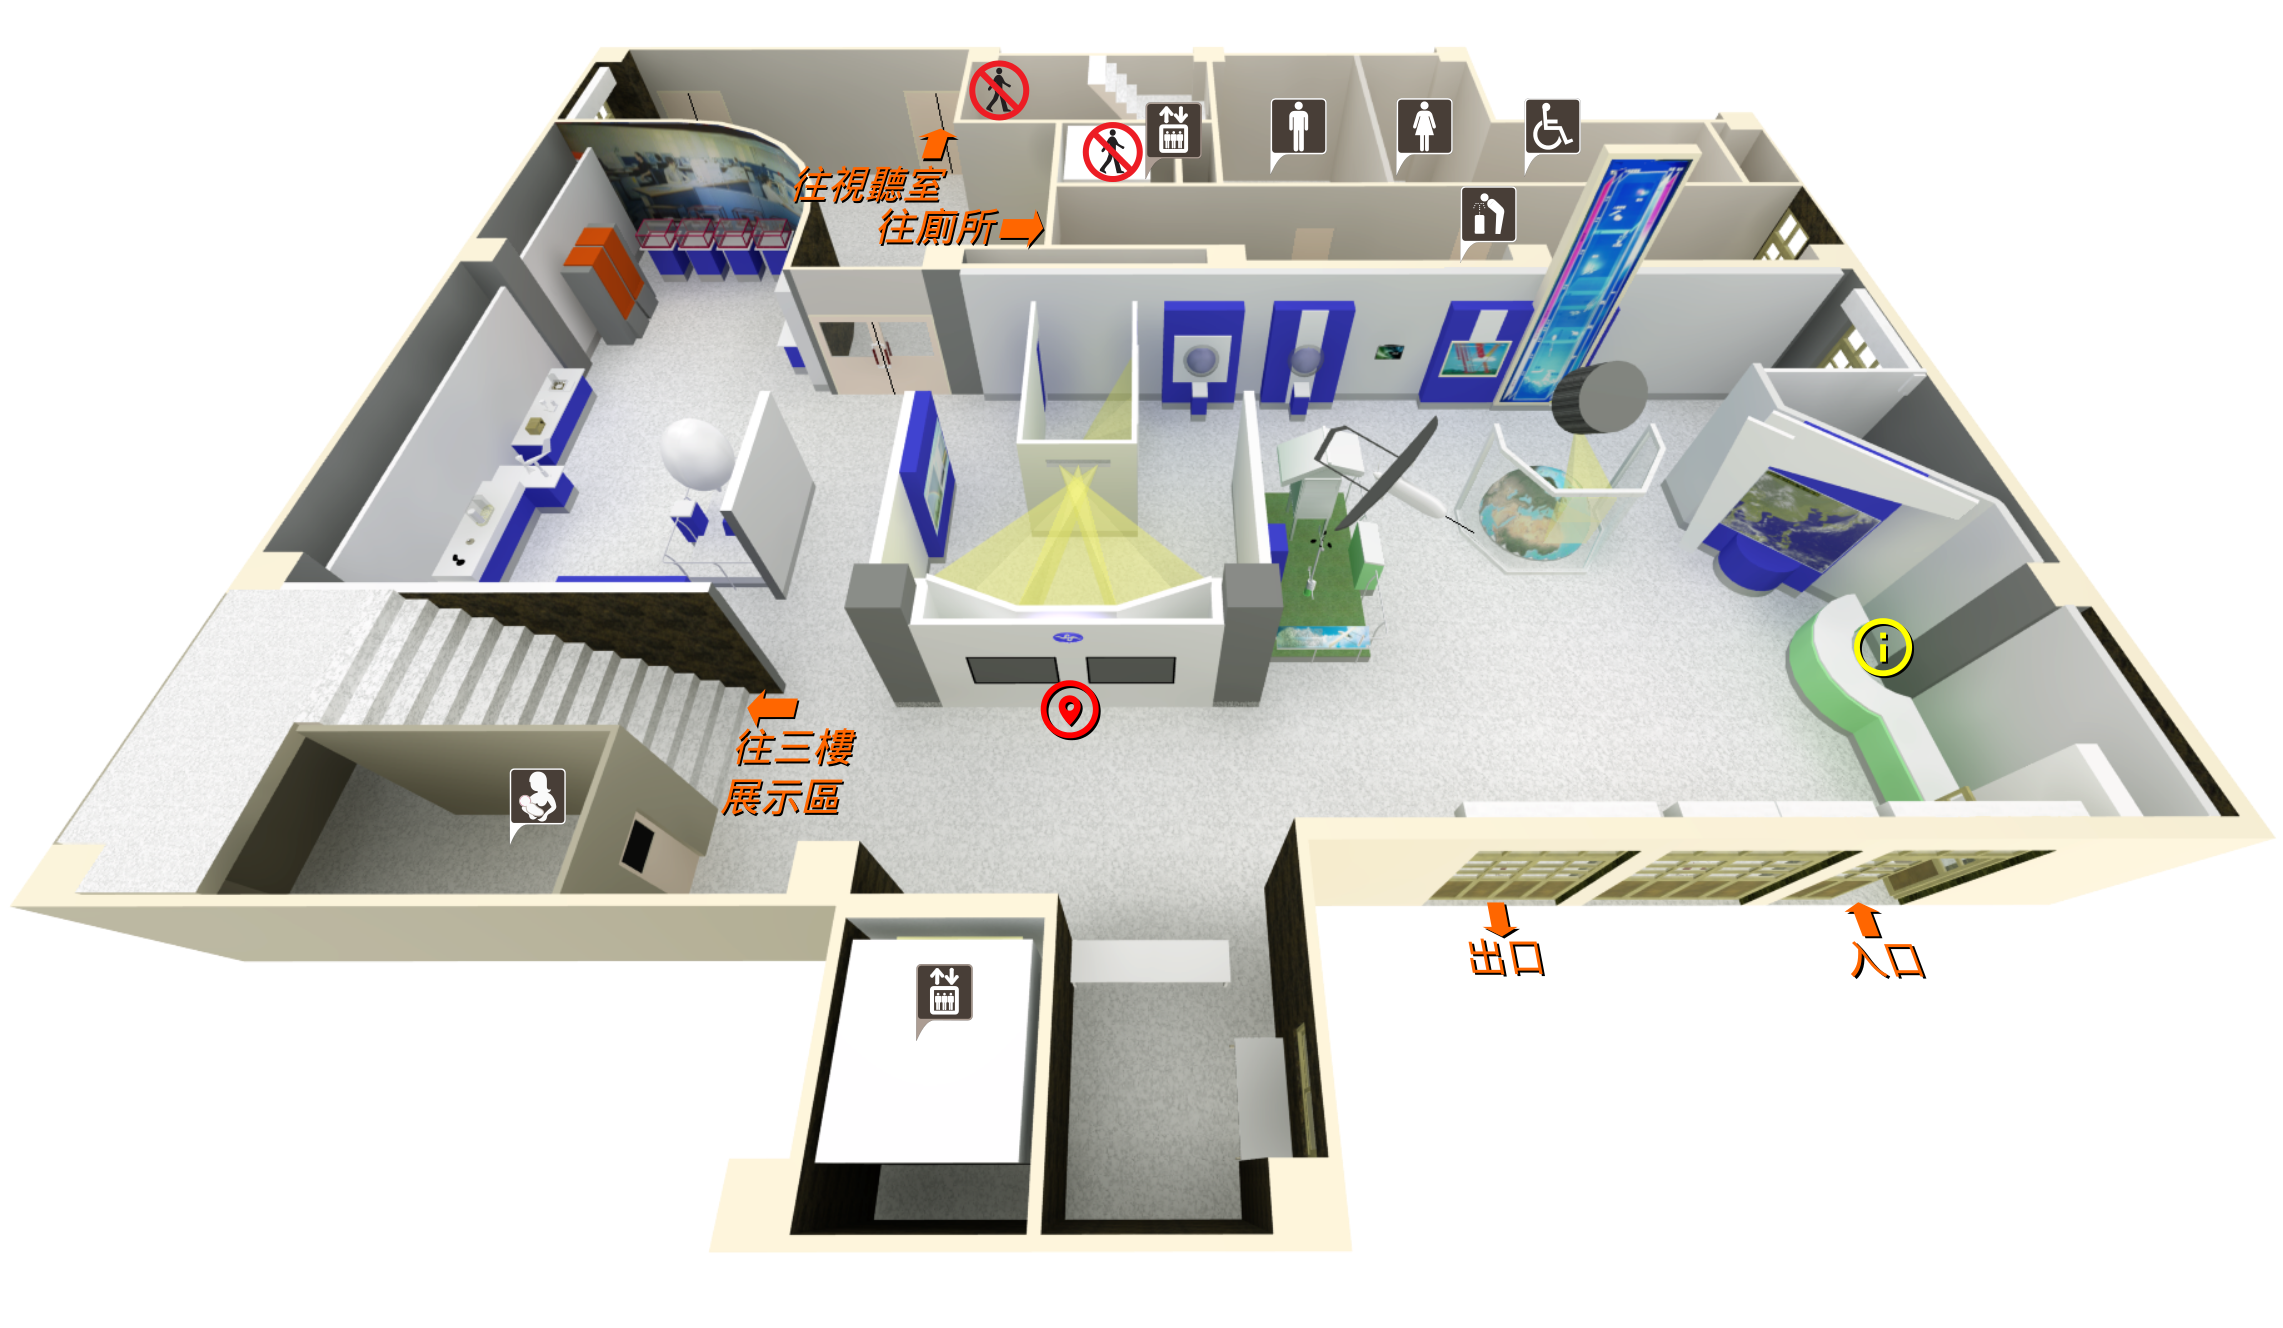
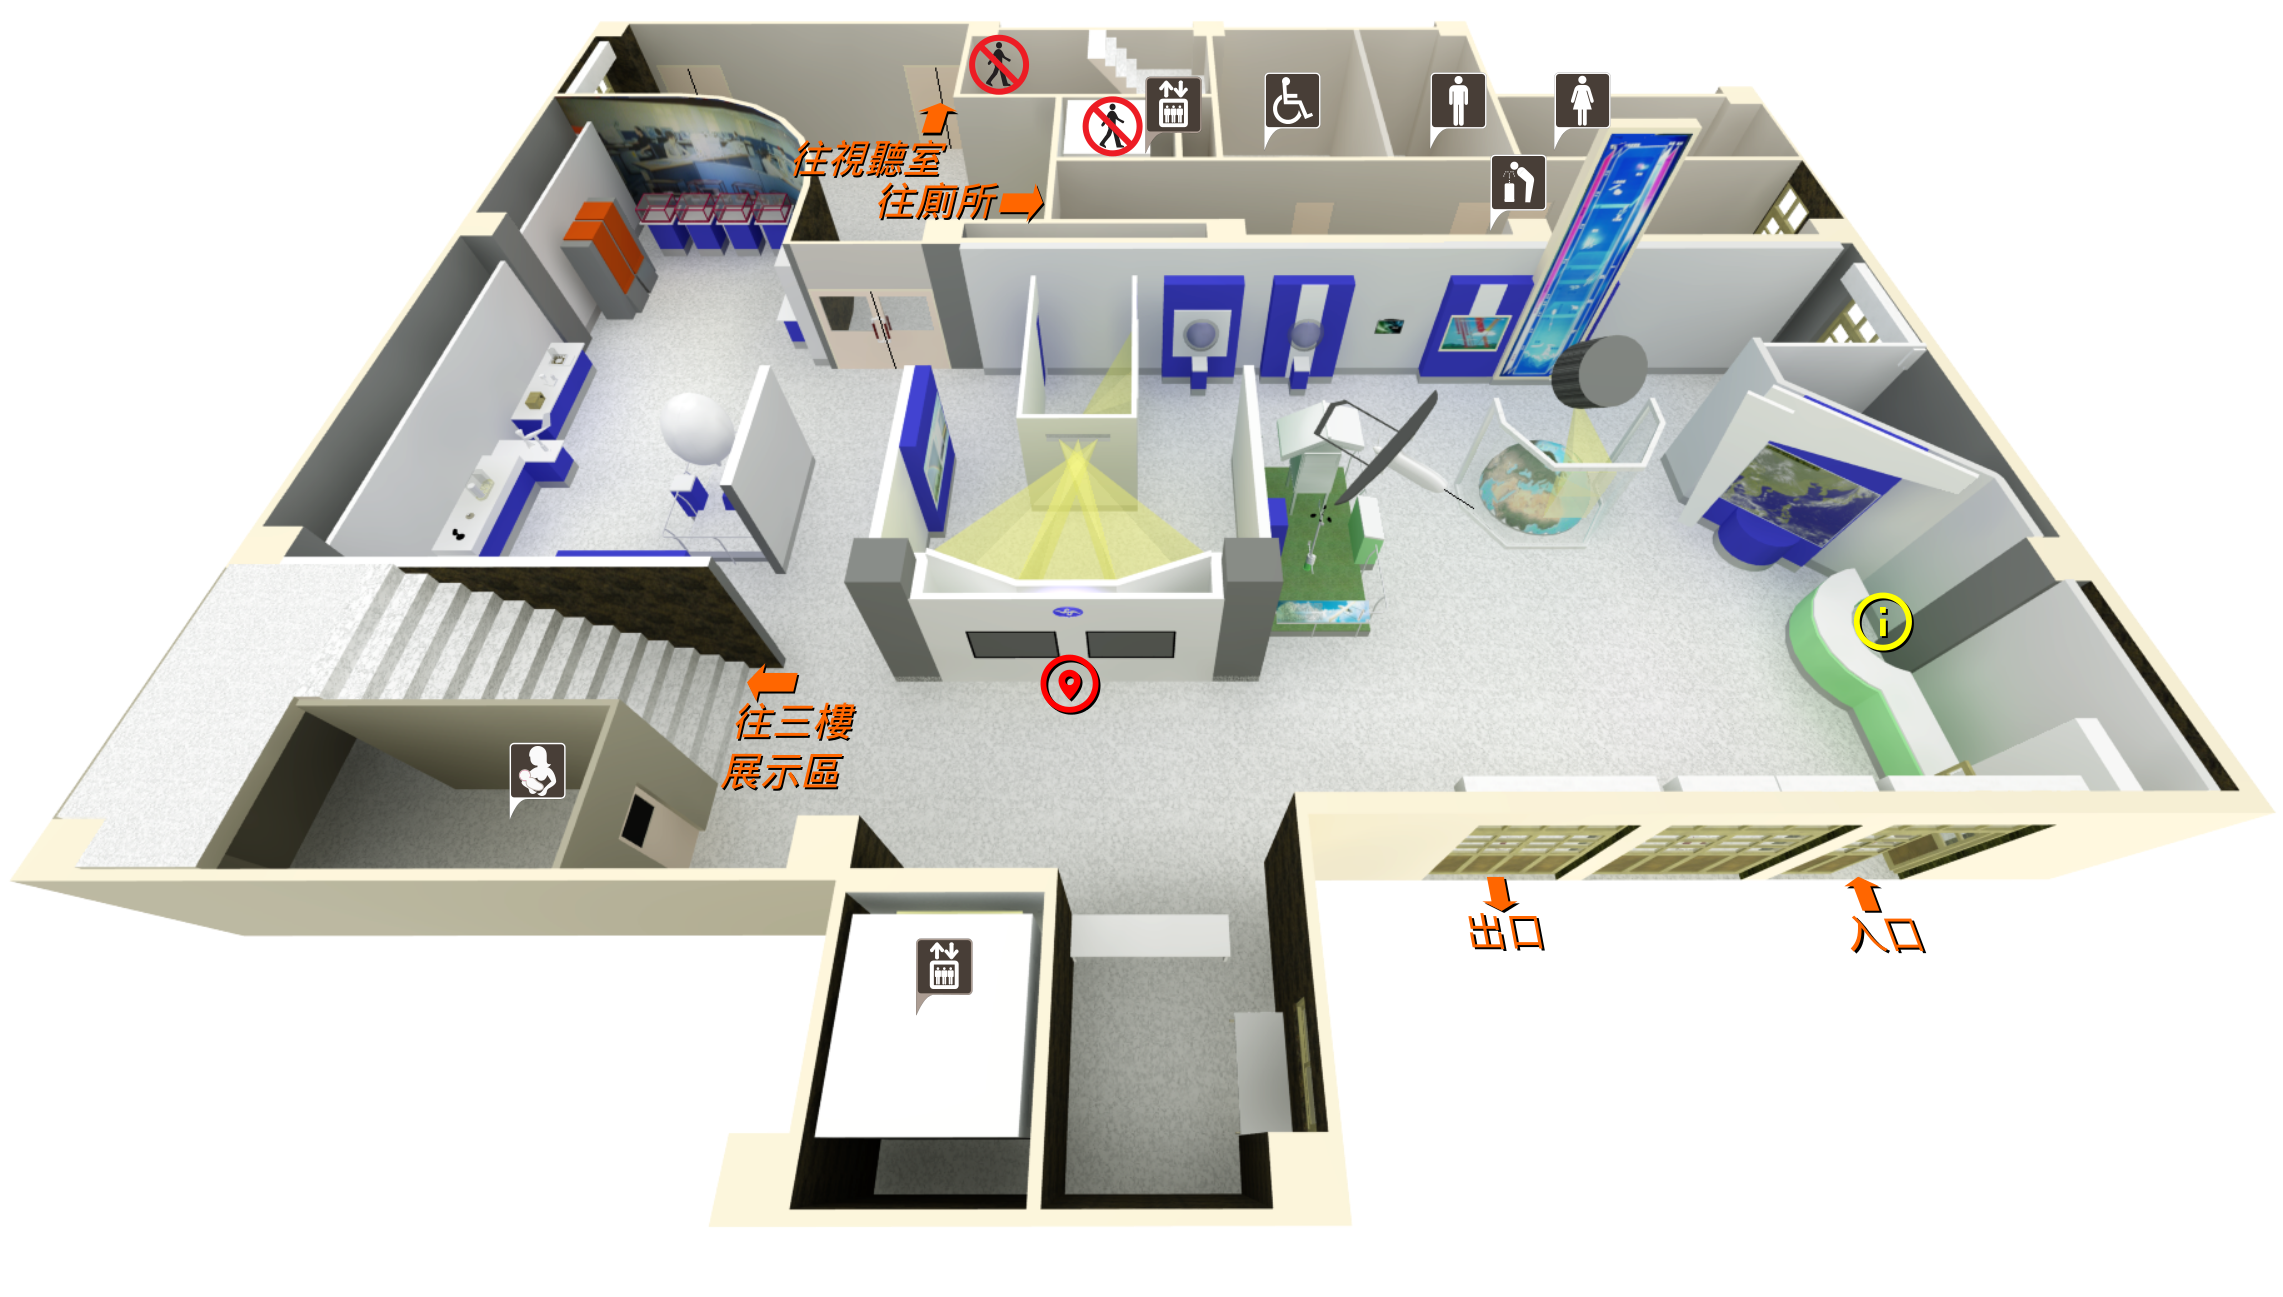
Change the image of 1F.
Because of the position of accessible toilet is wrong, we change the image to fix the error and also amend the coordinate of the marker in reponse to the change.

diff --git a/index.html b/index.html
@@ -82,25 +82,25 @@
             </div>
             <nav>
                 <ul id="FirstFloor">
-                    <li data-mtop="33%" data-mleft="75%">即時衛星雲圖</li>
-                    <li data-mtop="30%" data-mleft="64%">空中映像</li>
-                    <li data-mtop="29%" data-mleft="57%">無人氣象飛機</li>
-                    <li data-mtop="31%" data-mleft="53%">地面觀測儀器</li>
-                    <li data-mtop="17%" data-mleft="65%">大氣層</li>
-                    <li data-mtop="20%" data-mleft="60%">太陽能量收支</li>
-                    <li data-mtop="20%" data-mleft="53%">大氣循環</li>
-                    <li data-mtop="20%" data-mleft="48%">水文循環</li>
-                    <li data-mtop="23%" data-mleft="45%">雲</li>
-                    <li data-mtop="34%" data-mleft="43%">水的三態</li>
-                    <li data-mtop="28%" data-mleft="36%">光象</li>
-                    <li data-mtop="20%" data-mleft="30%">氣象雷達</li>
-                    <li data-mtop="14%" data-mleft="31%">氣象衛星</li>
-                    <li data-mtop="15%" data-mleft="22%">第二代超級電腦</li>
-                    <li data-mtop="23%" data-mleft="20%">自記氣壓儀<br />虹吸式自記雨量儀<br />傾斗式自記雨量儀</li>
-                    <li data-mtop="32%" data-mleft="18%">鐵管地溫器<br />約旦日照計<br />全天日射計<br />濕度儀<br />風向風速儀</li>
-                    <li data-mtop="30%" data-mleft="26%">高空探測汽球</li>
-                    <li data-mtop="36%" data-mleft="16%">高空氣象觀測</li>
-                    <li data-mtop="35%" data-mleft="23%">全臺氣象測站</li>
+                    <li data-mtop="32%" data-mleft="75%">即時衛星雲圖</li>
+                    <li data-mtop="29%" data-mleft="64%">空中映像</li>
+                    <li data-mtop="28%" data-mleft="57%">無人氣象飛機</li>
+                    <li data-mtop="30%" data-mleft="53%">地面觀測儀器</li>
+                    <li data-mtop="16%" data-mleft="65%">大氣層</li>
+                    <li data-mtop="19%" data-mleft="60%">太陽能量收支</li>
+                    <li data-mtop="19%" data-mleft="53%">大氣循環</li>
+                    <li data-mtop="19%" data-mleft="48%">水文循環</li>
+                    <li data-mtop="22%" data-mleft="45%">雲</li>
+                    <li data-mtop="33%" data-mleft="43%">水的三態</li>
+                    <li data-mtop="27%" data-mleft="36%">光象</li>
+                    <li data-mtop="19%" data-mleft="30%">氣象雷達</li>
+                    <li data-mtop="13%" data-mleft="31%">氣象衛星</li>
+                    <li data-mtop="14%" data-mleft="22%">第二代超級電腦</li>
+                    <li data-mtop="22%" data-mleft="20%">自記氣壓儀<br />虹吸式自記雨量儀<br />傾斗式自記雨量儀</li>
+                    <li data-mtop="31%" data-mleft="18%">鐵管地溫器<br />約旦日照計<br />全天日射計<br />濕度儀<br />風向風速儀</li>
+                    <li data-mtop="29%" data-mleft="26%">高空探測汽球</li>
+                    <li data-mtop="35%" data-mleft="16%">高空氣象觀測</li>
+                    <li data-mtop="34%" data-mleft="23%">全臺氣象測站</li>
                 </ul>
                 <ul id="ThirdFloor" style="display: none;">
                     <li data-mtop="0%" data-mleft="0%">大氣環境監測<br />氣候冠軍賓果王<br />氣候面面觀</li>
@@ -151,7 +151,7 @@
                 </ul>
             </nav>
         </aside>
-        <div class="imagebox" style="max-width: 2283px; max-height: 1328px;">
+        <div class="imagebox" style="max-width: 2283px; max-height: 1297px;">
             <img src="img/Icon.png" class="iconimg" alt="指示標籤"/>
             <img src="img/1F_noIcon.png" class="mapimg" alt="導覽圖"/>
             <span class="tag" style="display: none;"></span>
